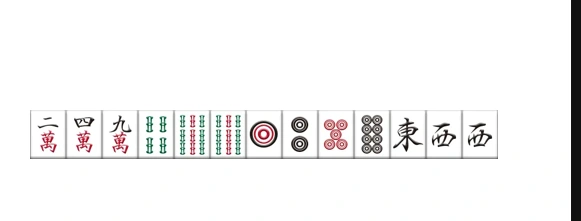
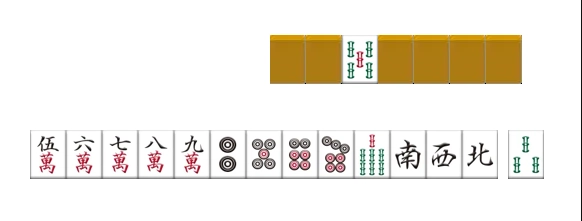
作成

Changed region(s): [[0.031, 0.0, 1.0, 1.0], [0.4647, 0.1357, 0.8985, 0.3801], [0.8365, 0.4887, 0.8675, 0.5158]]

diff --git a/app/main.py b/app/main.py
@@ -15,8 +15,8 @@ ACCESS_TOKEN_SECRET = os.environ.get('ACCESS_TOKEN_SECRET')
 
 PAI = (
   '1m', '2m', '3m', '4m', '5m', '5mRed', '6m', '7m', '8m', '9m',
-  '1s', '2s', '3s', '4s', '5s', '5sRed', '6s', '7s', '8s', '9s',
   '1p', '2p', '3p', '4p', '5p', '5pRed', '6p', '7p', '8p', '9p',
+  '1s', '2s', '3s', '4s', '5s', '5sRed', '6s', '7s', '8s', '9s',
   'ton', 'nan', 'sha', 'pei', 'haku', 'hatsu', 'chun'
 )
 ORDER = {}
@@ -41,23 +41,40 @@ def send_tile_dealing():
   # )
   # client.create_tweet(text="テスト")
 
+  # ドラ表示牌
+  dra_indicator, count_key = random_tile()
+  PAI_COUNT[count_key] -= 1
+  # 配牌
   tiles = select_tiles()
   tiles.sort(key=lambda val: ORDER[val])
+
+  # ツモ牌
+  drawn_tile = draw_tile()
 
   background = Image.open('img/background.webp')
   for i, t in enumerate(tiles):
     img = Image.open(f'img/{t}.webp').resize((36, 49))
-    background.paste(img, (i * 36 + 30, 110))
+    background.paste(img, (i * 36 + 30, 130))
 
-  background.save('test.webp', quality=95)
+  drawn_tile_img = Image.open(f'img/{drawn_tile}.webp').resize((36, 49))
+  background.paste(drawn_tile_img, (508, 130))
+
+  dra_indicator_img = Image.open(f'img/{dra_indicator}.webp').resize((36, 49))
+  back = Image.open('img/back.webp').resize((36, 49))
+
+  for i in range(7):
+    if i == 2:
+      background.paste(dra_indicator_img, (i * 36 + 270, 35))
+    else:
+      background.paste(back, (i * 36 + 270, 35))
+
+  background.save('test.webp', quality=100)
   print(PAI_COUNT)
 
 def select_tiles():
   tiles = []
   while len(tiles) < 13:
-    num = random.randint(0, len(PAI) - 1)
-    append_tile = PAI[num]
-    count_key = append_tile.replace('Red', '')
+    append_tile, count_key = random_tile()
     # 同じ赤が2枚以上入らないようにする
     if 'Red' in append_tile and append_tile in tiles:
       continue
@@ -65,10 +82,23 @@ def select_tiles():
     if PAI_COUNT[count_key] == 0:
       continue
 
-    tiles.append(PAI[num])
+    tiles.append(append_tile)
     PAI_COUNT[count_key] -= 1
 
   return tiles
+
+def random_tile():
+  num = random.randint(0, len(PAI) - 1)
+  tile = PAI[num]
+  return tile, tile.replace('Red', '')
+
+def draw_tile():
+  while True:
+    tile, count_key = random_tile()
+    if PAI_COUNT[count_key] > 0:
+      break
+
+  return tile
 
 if __name__ == '__main__':
   send_tile_dealing()
